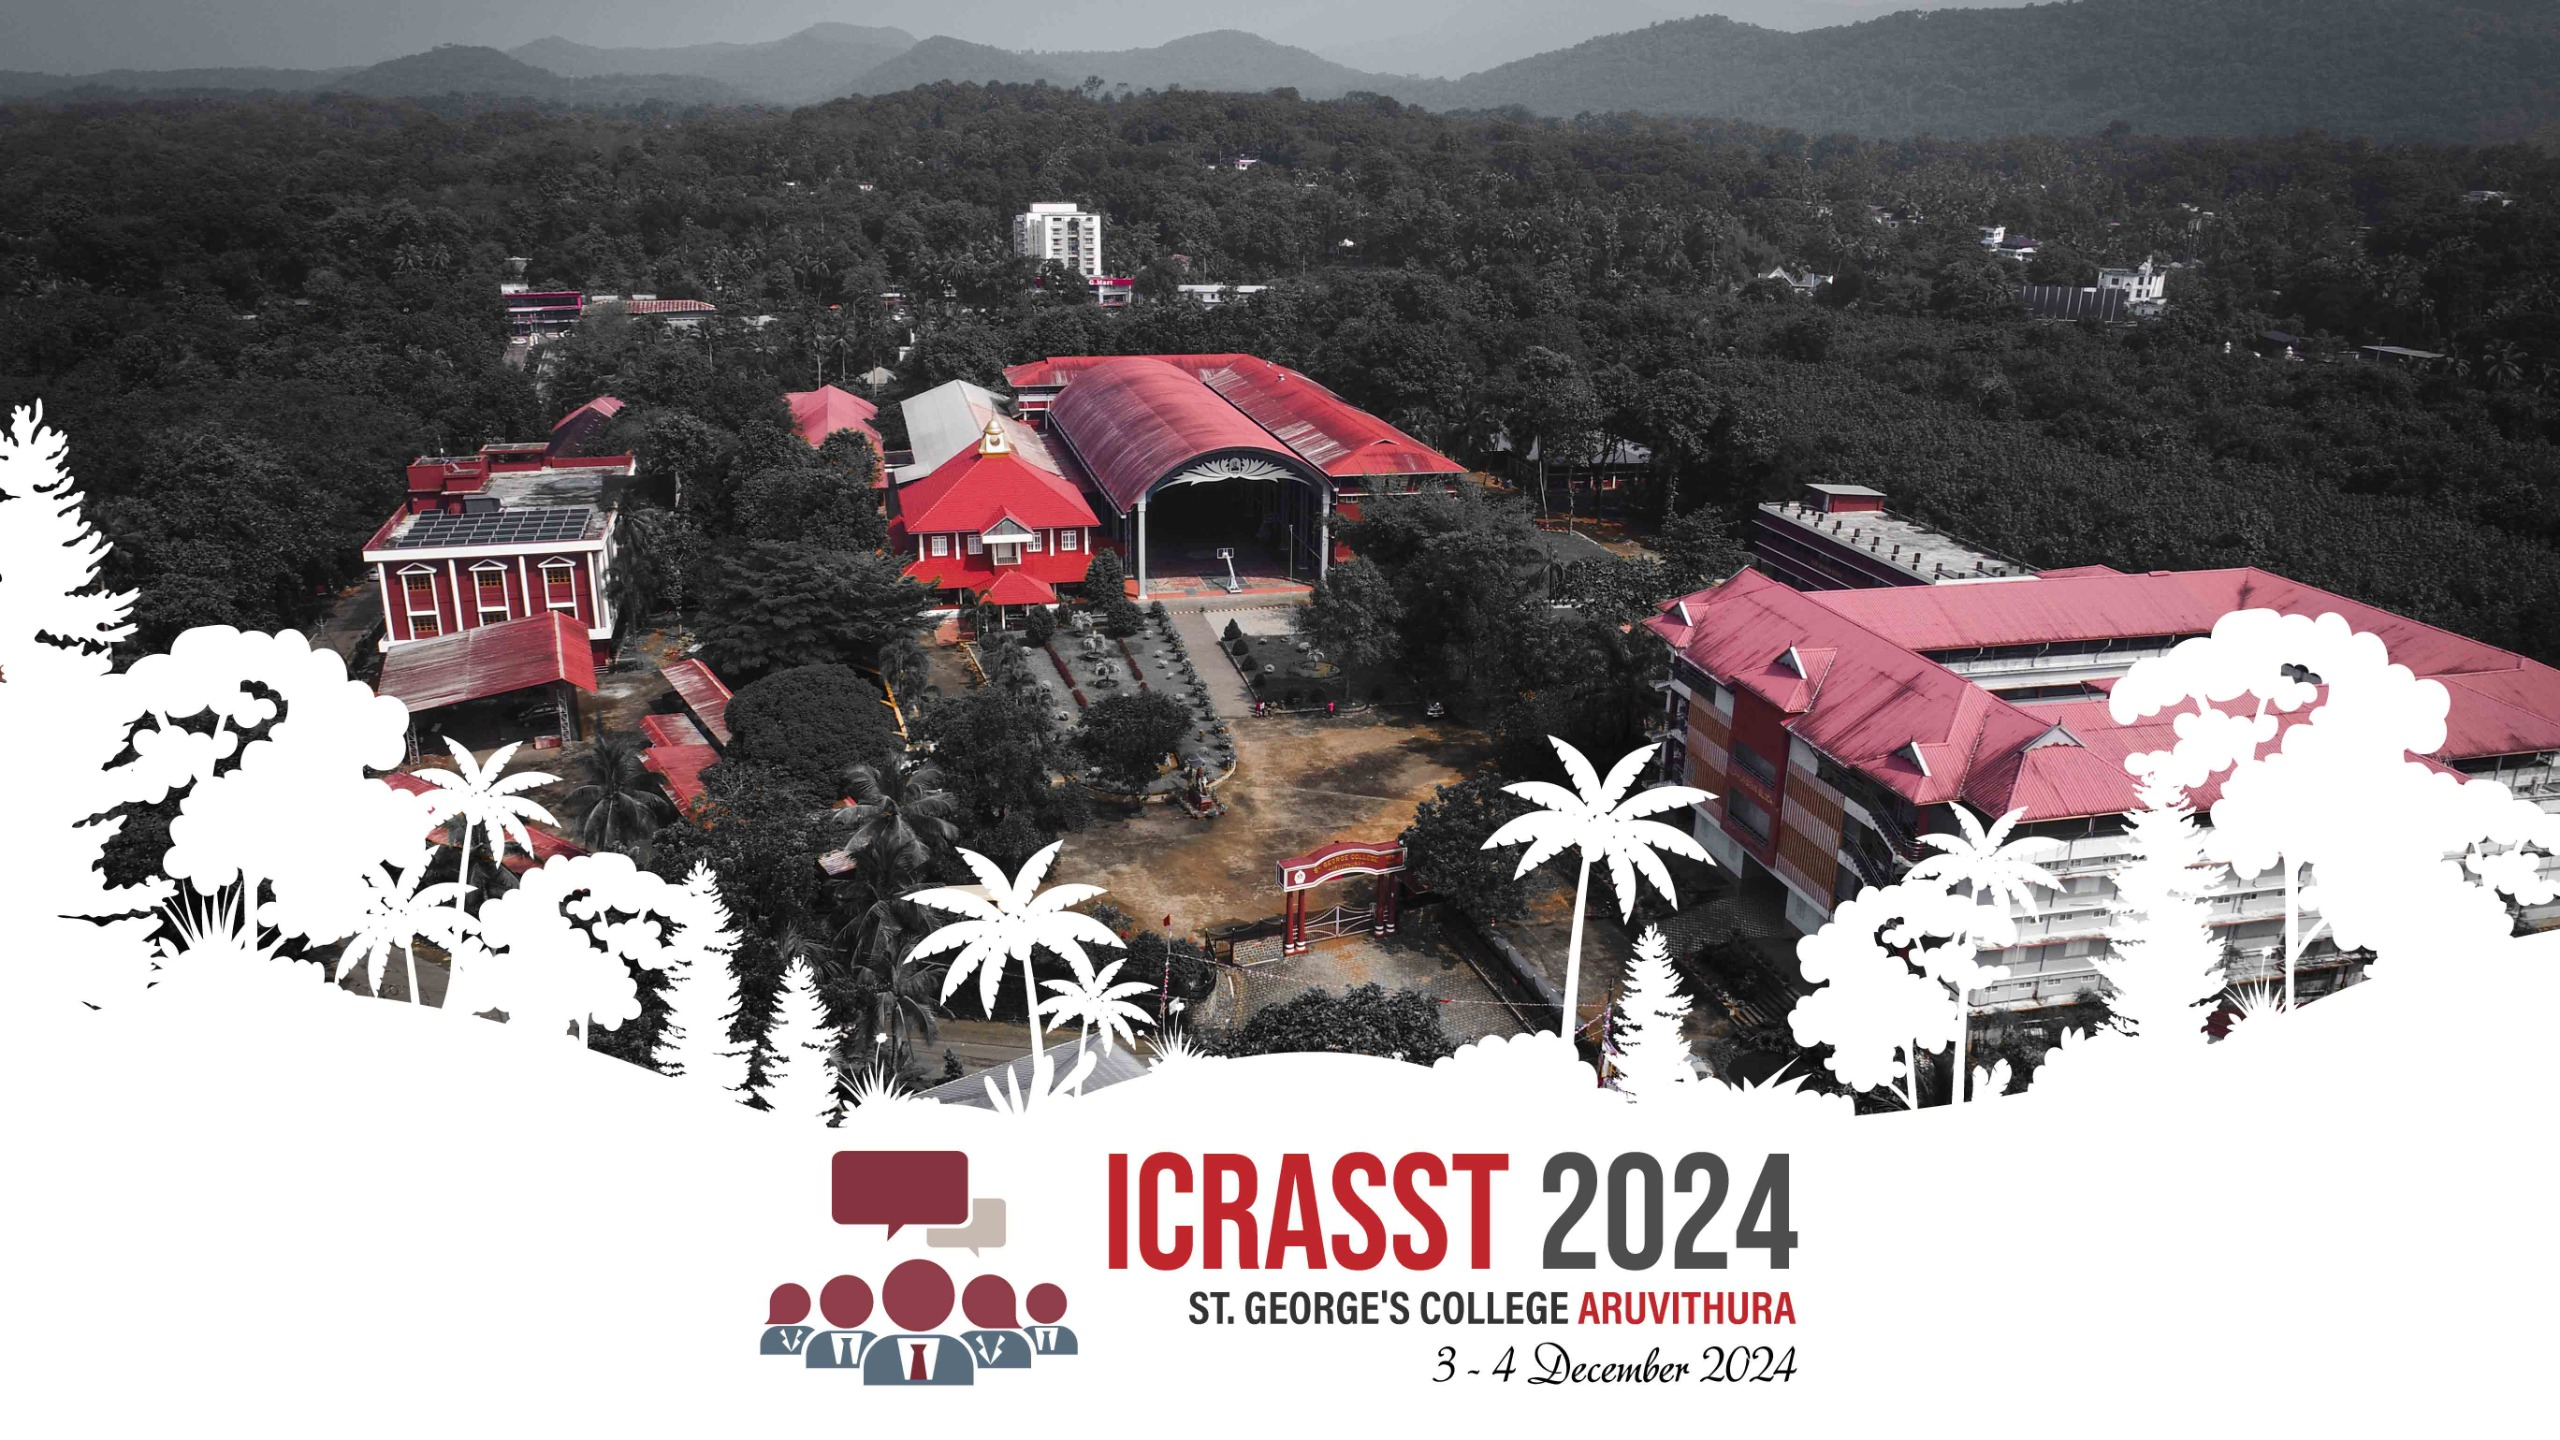
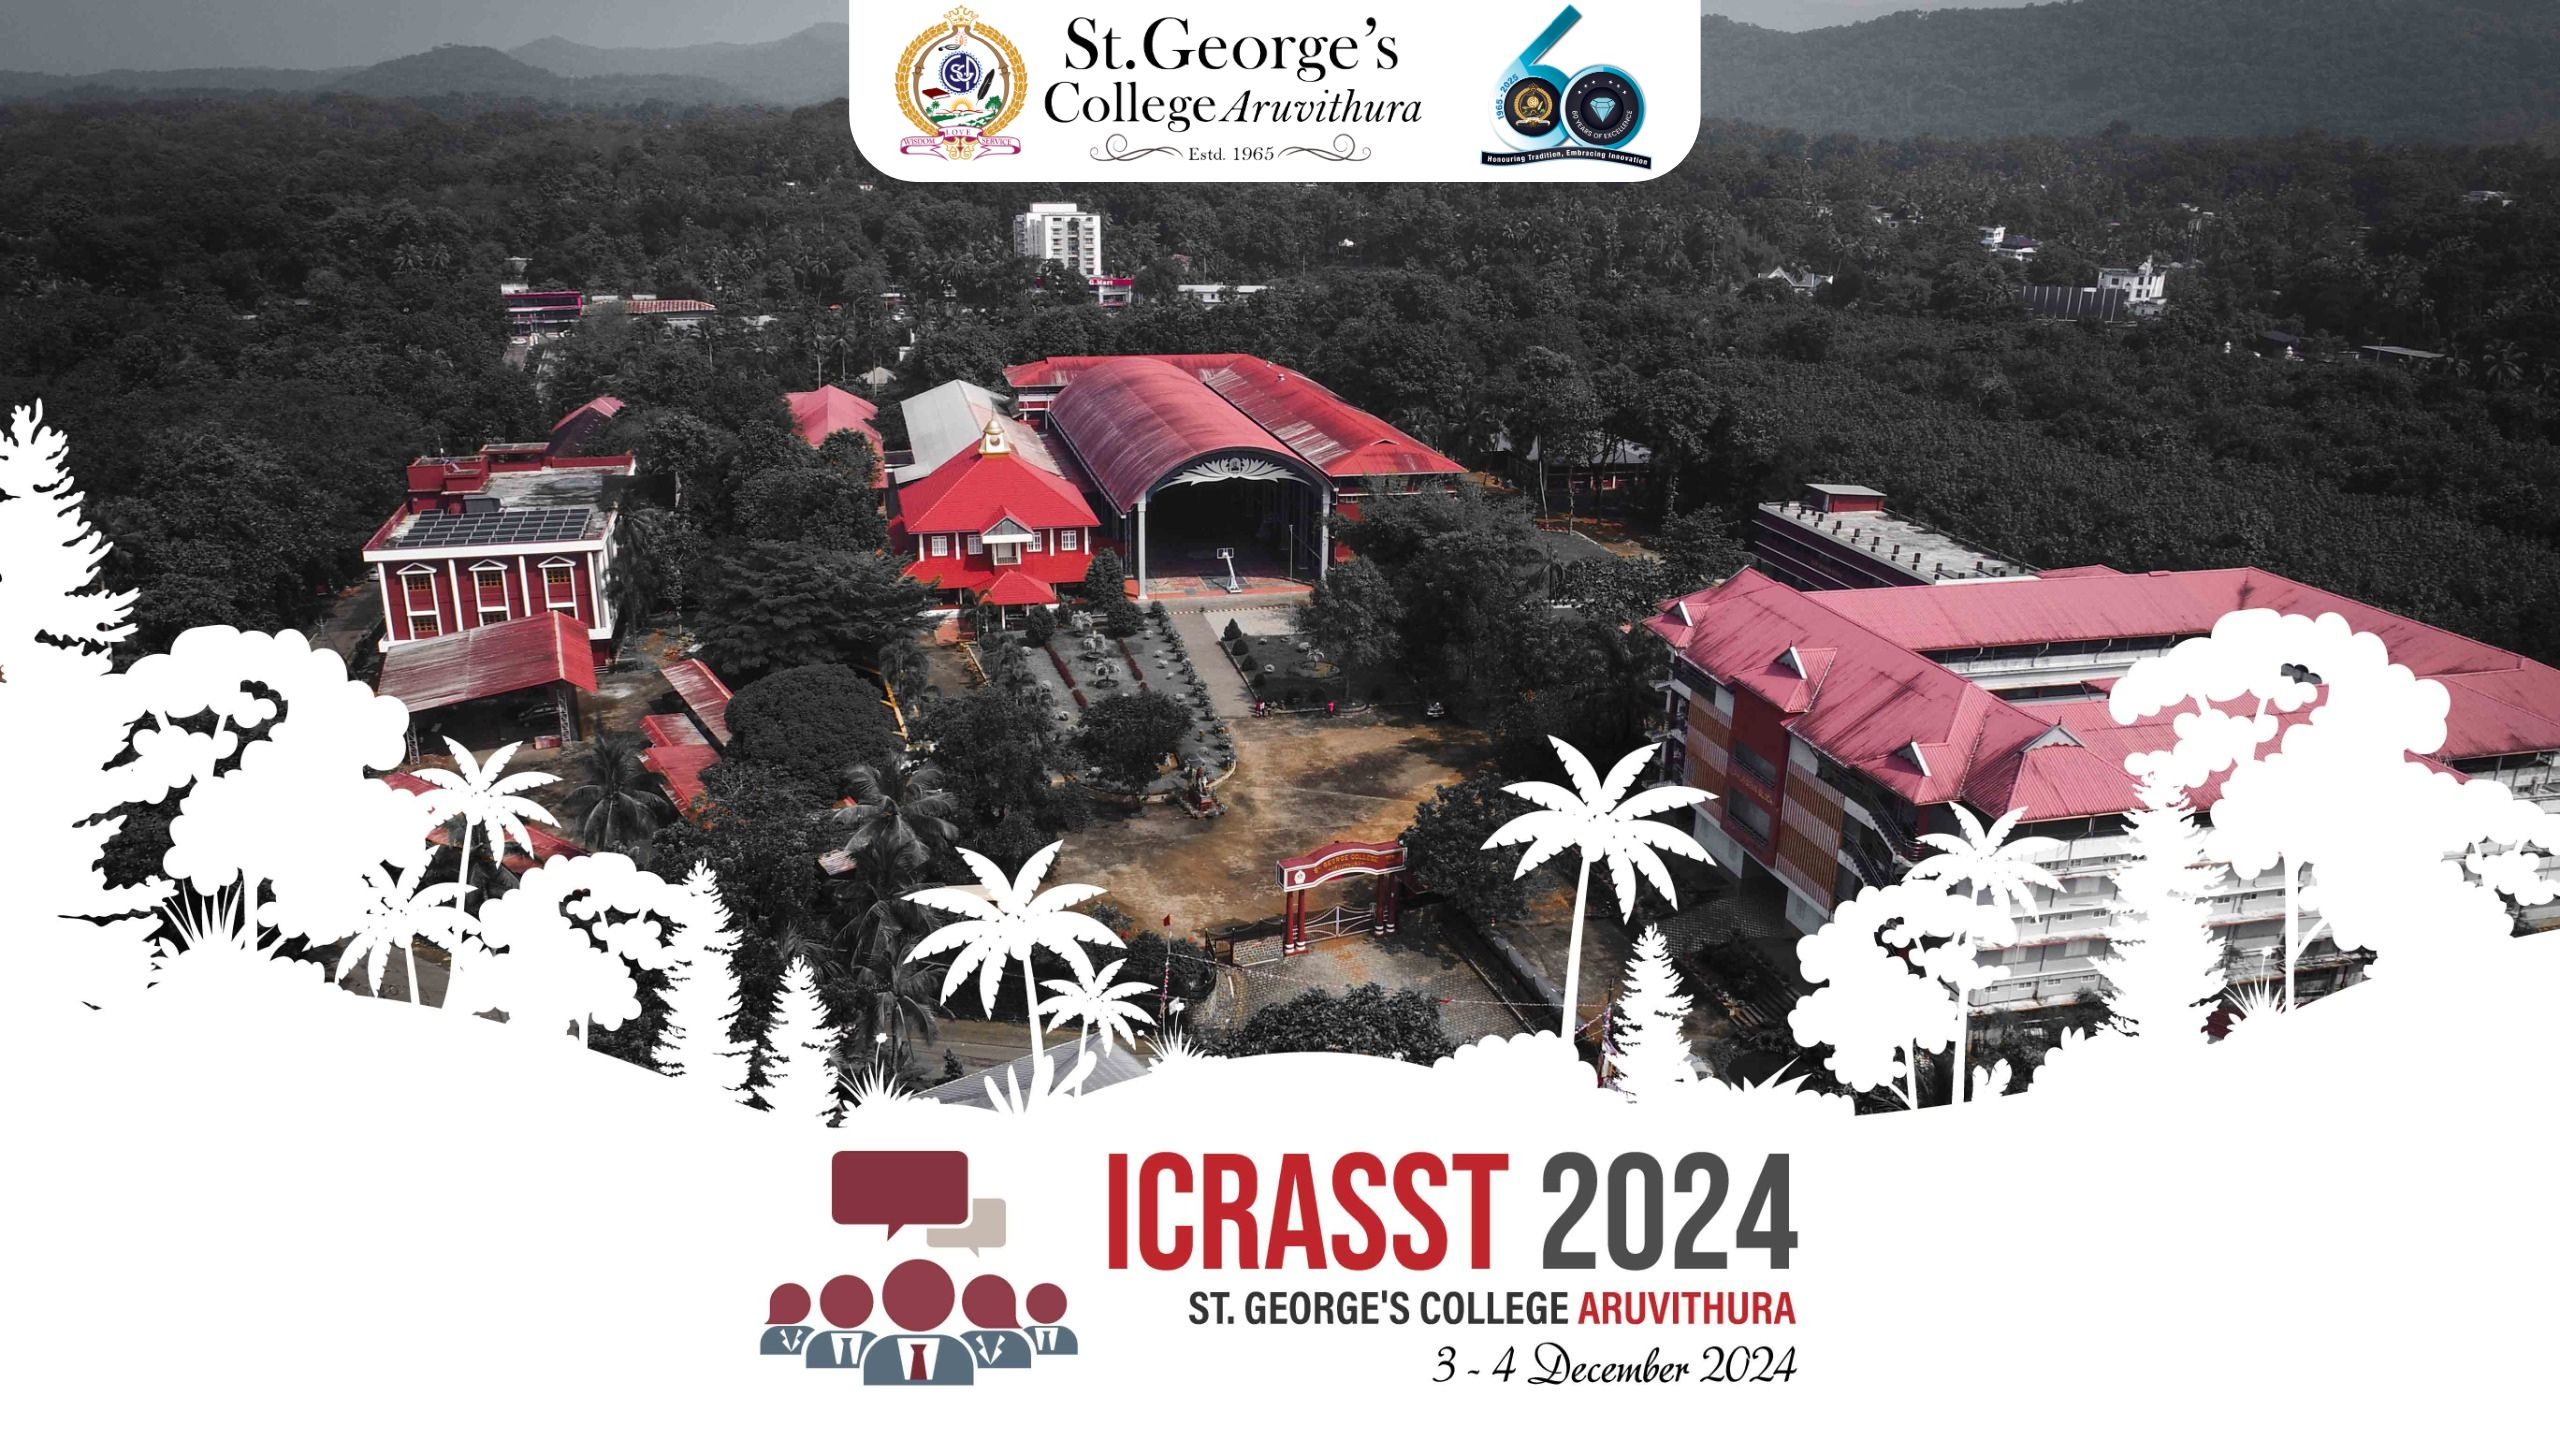
College link added

Changed region(s): [[0.3125, 0.0, 0.6875, 0.125]]

diff --git a/index.html b/index.html
@@ -109,12 +109,11 @@
     <!-- First Image -->
     <div class="my-3 text-center">
         <img src="image/icrasst-bg.jpg" class="img-fluid" alt="SGC Image" style="max-width: 65%; height: auto; border-radius: 8px;">
-        <a href="https://sgcaruvithura.ac.in/"><img src="image/sgclogo.png" class="img-fluid" alt="SGC Logo" style="max-width: 36%; height: auto; border-radius: 8px;"></a>
     </div>
 
     <div class="container my-5">
         <p class="text-justify-strict text-dark">
-            St. George’s College, Aruvithura, Kottayam, Kerala, India, is proud to host the <strong>International Conference on Recent Advancements in Science, Social Science, and Technology (ICRASST) 2024</strong>, organized by the IQAC on December 3 and 4, 2024. This two-day hybrid event offers a platform for knowledge exchange through invited talks by eminent personalities, oral and poster presentations, and networking opportunities. Participants from all disciplines can present their research either online or offline, with awards for the best presentations. <strong>Selected full papers will be published in <a href="https://gem.sgcaruvithura.ac.in/">GEM journal</a>, and all abstracts will be published with an ISBN</strong>. We invite you to join us in this enriching academic experience.
+            <a href="https://sgcaruvithura.ac.in/">St. George’s College, Aruvithura</a>, Kottayam, Kerala, India, is proud to host the <strong>International Conference on Recent Advancements in Science, Social Science, and Technology (ICRASST) 2024</strong>, organized by the IQAC on December 3 and 4, 2024. This two-day hybrid event offers a platform for knowledge exchange through invited talks by eminent personalities, oral and poster presentations, and networking opportunities. Participants from all disciplines can present their research either online or offline, with awards for the best presentations. <strong>Selected full papers will be published in <a href="https://gem.sgcaruvithura.ac.in/">GEM journal</a>, and all abstracts will be published with an ISBN</strong>. We invite you to join us in this enriching academic experience.
         </p>
 
         <h4>Theme</h4>
